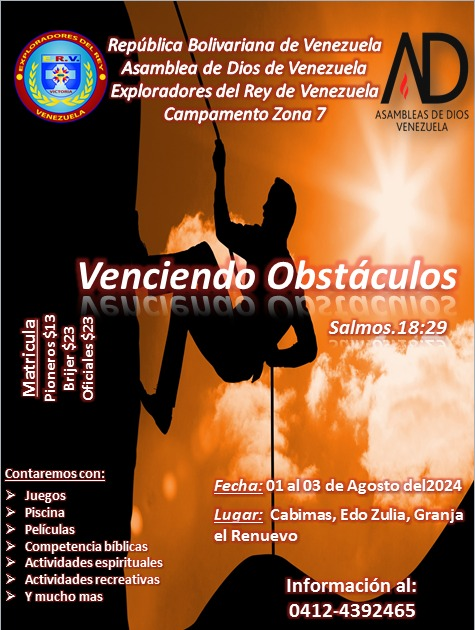
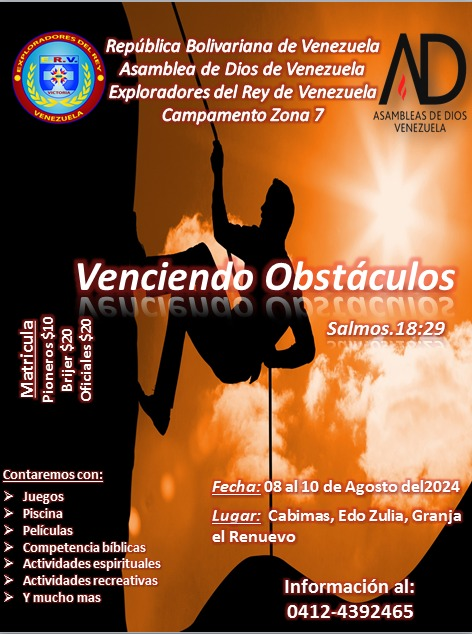
-

diff --git a/src/components/Navbar.jsx b/src/components/Navbar.jsx
@@ -34,74 +34,46 @@ const Navbar = () => {
         >
           <p>Mi Cuenta</p>
           <div className={`nav-user-links ${!userOpen ? "user-open" : ""}`}>
-            <Link to="/login" onClick={() => setToggle((prev) => !prev)}>
+            <Link to="/login" onClick={() => setToggle(false)}>
               Iniciar Sesión
             </Link>
-            <Link to="/registro" onClick={() => setToggle((prev) => !prev)}>
+            <Link to="/registro" onClick={() => setToggle(false)}>
               Registrarse
             </Link>
           </div>
         </li>
         <li className="nav__link">
-          <HashLink
-            smooth
-            to="/#inicio"
-            onClick={() => setToggle((prev) => !prev)}
-          >
+          <HashLink smooth to="/#inicio" onClick={() => setToggle(false)}>
             Inicio
           </HashLink>
         </li>
         <li className="nav__link">
-          <HashLink
-            smooth
-            to="/#nosotros"
-            onClick={() => setToggle((prev) => !prev)}
-          >
+          <HashLink smooth to="/#nosotros" onClick={() => setToggle(false)}>
             Conocemos
           </HashLink>
         </li>
         <li className="nav__link">
-          <HashLink
-            smooth
-            to="/#eventos"
-            onClick={() => setToggle((prev) => !prev)}
-          >
+          <HashLink smooth to="/#eventos" onClick={() => setToggle(false)}>
             Eventos
           </HashLink>
         </li>
         <li className="nav__link">
-          <HashLink
-            smooth
-            to="/#galeria"
-            onClick={() => setToggle((prev) => !prev)}
-          >
+          <HashLink smooth to="/#galeria" onClick={() => setToggle(false)}>
             Galería
           </HashLink>
         </li>
         <li className="nav__link">
-          <HashLink
-            smooth
-            to="/#blog"
-            onClick={() => setToggle((prev) => !prev)}
-          >
+          <HashLink smooth to="/#blog" onClick={() => setToggle(false)}>
             Blog
           </HashLink>
         </li>
         <li className="nav__link">
-          <HashLink
-            smooth
-            to="/#contacto"
-            onClick={() => setToggle((prev) => !prev)}
-          >
+          <HashLink smooth to="/#contacto" onClick={() => setToggle(false)}>
             Contactanos
           </HashLink>
         </li>
         <li className="nav__link">
-          <HashLink
-            smooth
-            to="/intendencia"
-            onClick={() => setToggle((prev) => !prev)}
-          >
+          <HashLink smooth to="/intendencia" onClick={() => setToggle(false)}>
             Intendencia
           </HashLink>
         </li>

diff --git a/src/styles/Header.css b/src/styles/Header.css
@@ -4,19 +4,38 @@
   justify-content: center;
   flex-direction: column;
   padding-top: 72px;
+  padding-bottom: 2rem;
+  background-color: var(--light-brown);
 }
 
 .header__container article {
+  display: grid;
+  place-items: center;
   text-align: center;
   width: 100%;
   padding: 1rem;
+  padding-bottom: 2rem;
+}
+
+.header__container article img {
+  width: 150px;
+}
+
+.header__container article span {
+  font-weight: 400;
+  font-size: 2rem;
+  color: var(--txt-white);
+  text-shadow: 2px 2px 15px var(--dark-brown);
 }
 
 .header__container article h1 {
-  font-size: 1.8rem;
+  font-size: 3rem;
   font-weight: 400;
+  text-align: center;
+  text-shadow: 2px 2px 15px var(--dark-brown);
   margin-bottom: 1.6rem;
-  color: var(--txt-black);
+  color: var(--txt-white);
+  text-decoration: underline;
 }
 
 .header__container article a {
@@ -26,18 +45,19 @@
   padding-block: 0.4rem;
   padding-inline: 3rem;
   background-color: var(--dark-brown);
+  cursor: pointer;
 }
 
 .carousel__container {
   width: 100%;
-  height: 400px;
+  height: 100%;
   padding: 1rem;
 }
 
 .carousel__container img {
   width: 100%;
   height: 100%;
-  object-fit: cover;
+  object-fit: fill;
 }
 
 @media (width > 768px) {
@@ -46,15 +66,16 @@
     flex-direction: row;
     height: calc(100dvh + 72px);
     padding-top: 0;
+    padding-inline: 2rem;
   }
 
   .header__container article {
-    width: 60%;
+    width: 50%;
     text-align: left;
   }
 
   .header__container article h1 {
-    font-size: 4rem;
+    font-size: 5rem;
   }
 
   .header__container article a {
@@ -67,9 +88,8 @@
   }
 
   .carousel__container {
-    padding: 2rem;
-    width: 100%;
-    height: 100dvh;
+    width: 50%;
+    height: 70%;
     border-radius: 5px;
   }
 }

diff --git a/src/sections/Header.jsx b/src/sections/Header.jsx
@@ -17,6 +17,8 @@ import { useDispatch, useSelector } from "react-redux";
 import { useEffect } from "react";
 import { getBanner } from "@/redux/actions";
 
+import logo from "@/assets/image/erv_logo.png";
+
 const Header = () => {
   const dispatch = useDispatch();
   const banner = useSelector((state) => state.banner);
@@ -28,6 +30,12 @@ const Header = () => {
   return (
     <>
       <section id="inicio" className="header__container">
+        <article>
+          <img src={logo} alt="" />
+          <span>Bienvenivos a</span>
+          <h1>Exploradores del Rey</h1>
+          <a href="#nosotros">Saber más</a>
+        </article>
         <Swiper
           autoplay={{
             delay: 3000,

diff --git a/src/styles/Navbar.css b/src/styles/Navbar.css
@@ -28,9 +28,9 @@
   top: 72px;
   left: 0;
   display: flex;
-  justify-content: center;
   flex-direction: column;
   width: 100%;
+  height: 100dvh;
   list-style: none;
   visibility: hidden;
   opacity: 0;
@@ -41,6 +41,7 @@
   visibility: visible;
   opacity: 1;
   transition: visibility 0.3s ease, opacity 0.3s;
+  overflow-y: auto;
 }
 
 .nav__links .nav__link {
@@ -192,6 +193,7 @@
   .nav__links {
     position: relative;
     top: 0;
+    height: 100%;
     justify-content: center;
     flex-direction: row;
     visibility: visible;

diff --git a/src/App.jsx b/src/App.jsx
@@ -11,8 +11,8 @@ import Register from "./pages/Register";
 import EventsDescription from "./sections/EventsDescription";
 
 import axios from "axios";
-// axios.defaults.baseURL = "https://admin.ervzla.com/api";
-axios.defaults.baseURL = "http://localhost:8000/api";
+axios.defaults.baseURL = "https://admin.ervzla.com/api";
+// axios.defaults.baseURL = "http://localhost:8000/api";
 
 function App() {
   return (

diff --git a/src/utils/eventos.js b/src/utils/eventos.js
@@ -15,7 +15,7 @@ export const EVENTOS = [
   {
     imagen: venciendo_obstaculos,
     titulo: "Venciendo Obstáculos",
-    fecha: "de 01 al 03 de Agosto",
+    fecha: "de 08 al 10 de Agosto",
     lugar: "Cabimas, Edo Zulia, Granja el renuevo",
   },
   {
